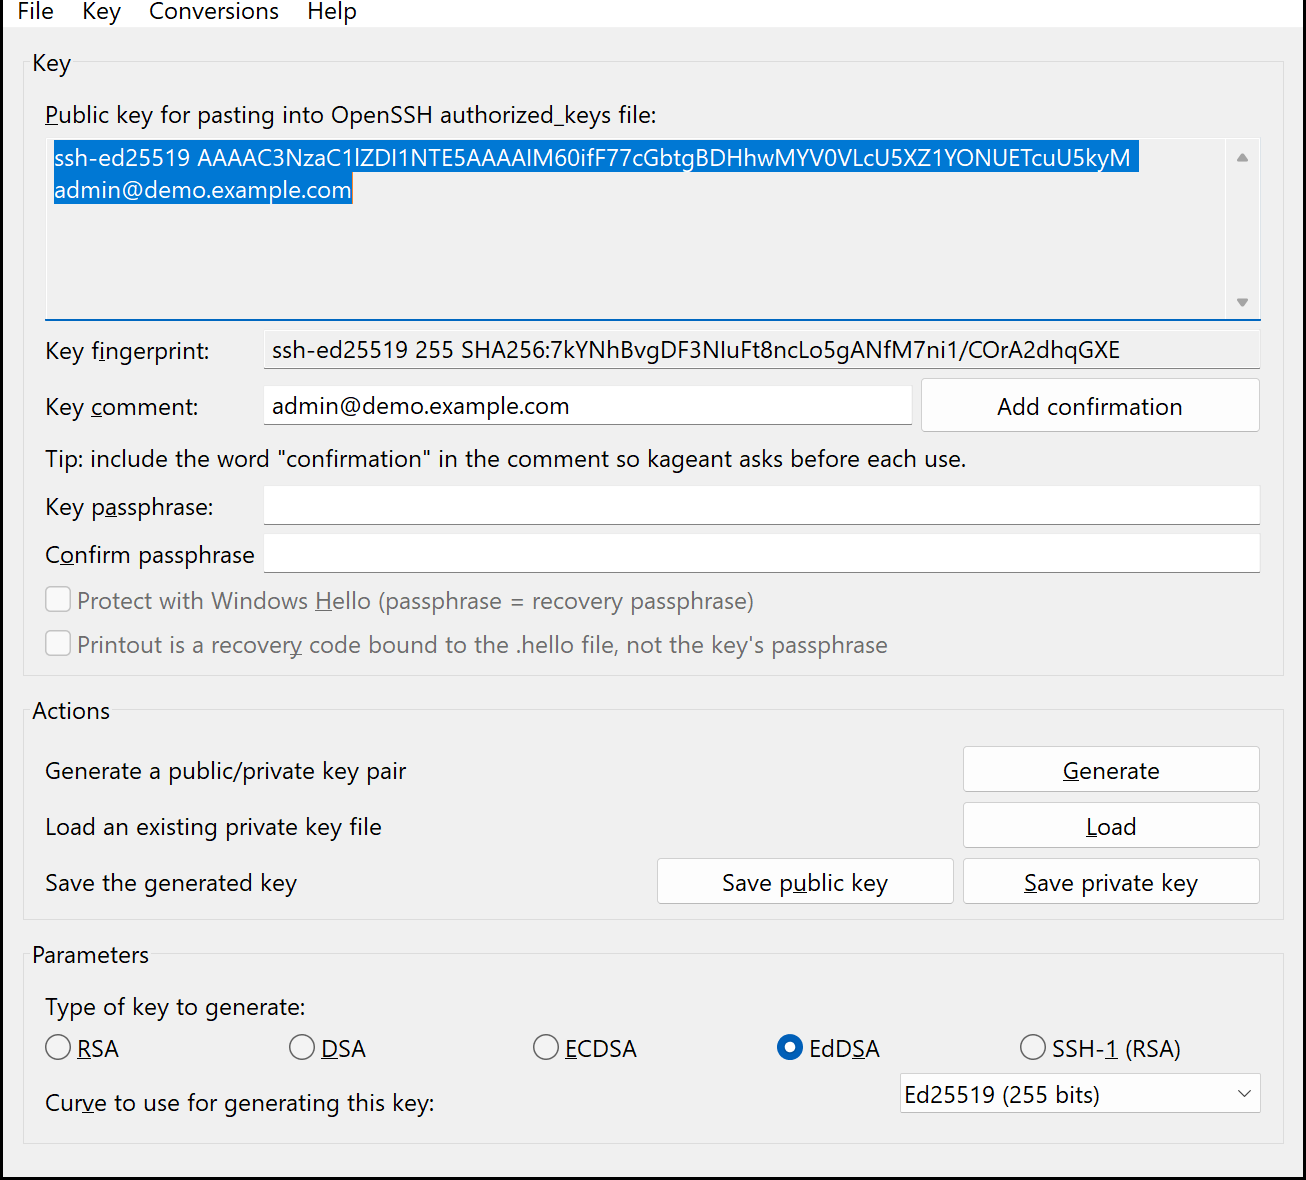
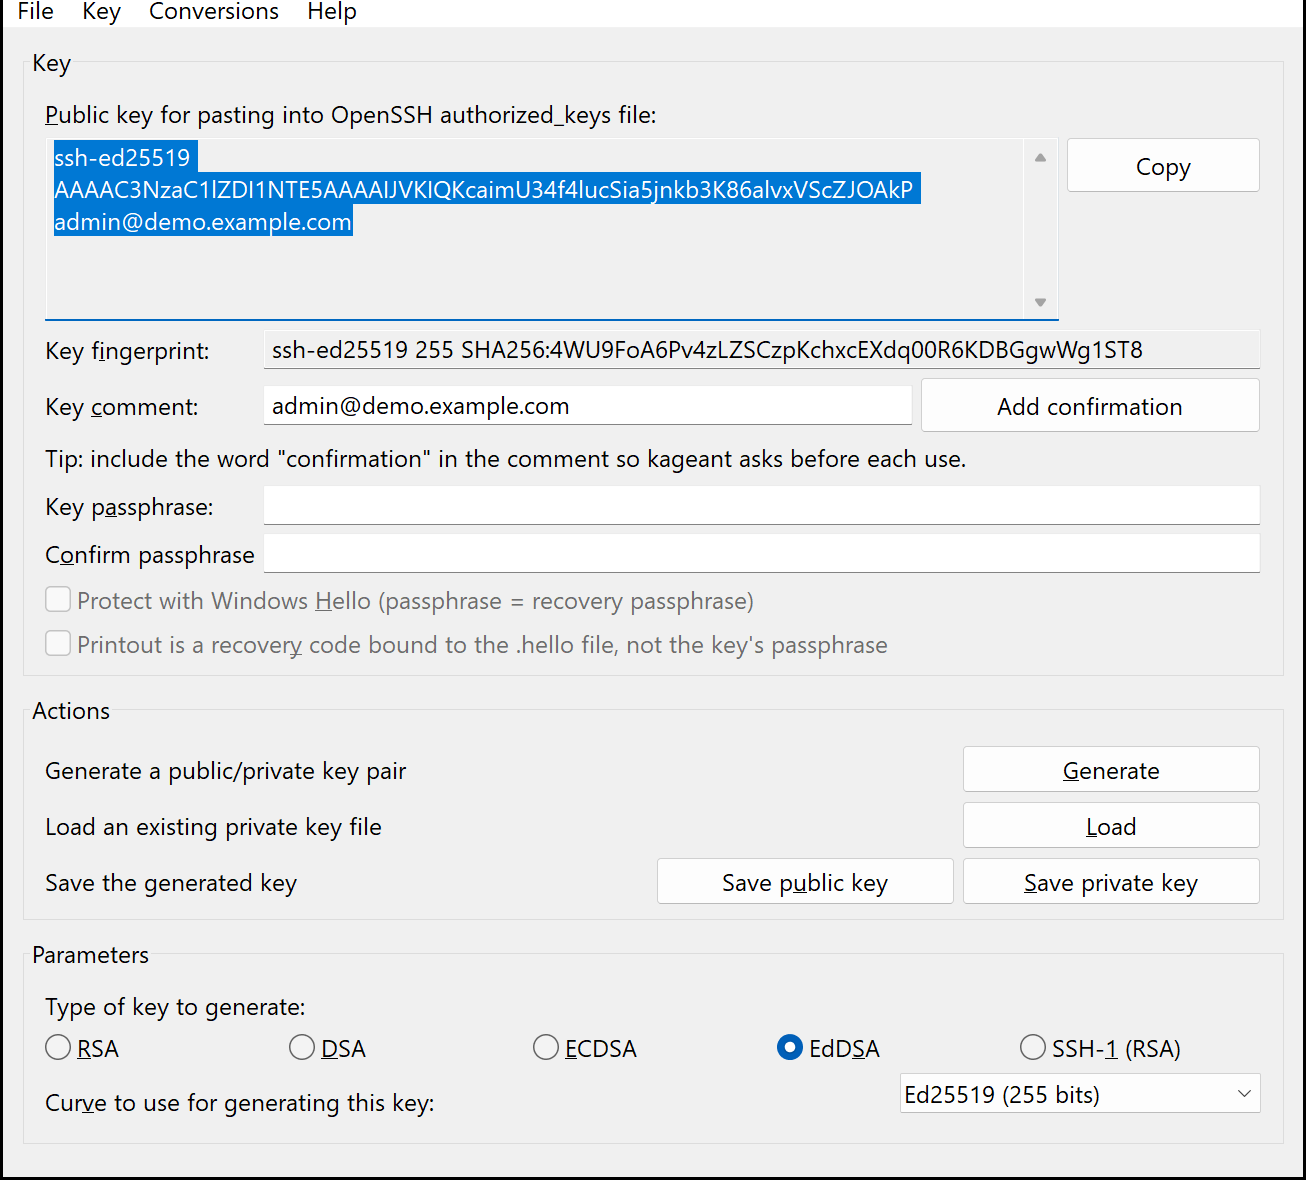
kittygen copy button, kageant settings line, named proxy last line fix for portable mode
kittygen has a Copy button beside the public-key box that puts the key on the clipboard.
A click into that box selects the whole key.
kageant's key list shows the kitty.ini path on its own row under the list.
A named proxy file without a final line break no longer loses its last value.
The FEATURES pictures of both tools are retaken.

Changed region(s): [[0.0306, 0.0915, 0.9188, 0.2136], [0.4288, 0.2746, 0.8882, 0.3051]]

diff --git a/windows/puttygen.c b/windows/puttygen.c
@@ -962,6 +962,7 @@ enum {
     IDC_HELLODOORS,    /* KiTTY: the sidecar door editor (menu item) */
     IDC_KGSIDEBOUND,   /* KiTTY: printout = code bound to the sidecar */
     IDC_KGNEW,         /* KiTTY: File > New - clear the mask */
+    IDC_COPYPUB,       /* KiTTY: public key to the clipboard */
 };
 
 /*
@@ -1134,12 +1135,40 @@ static void kg_hello_sync(HWND hwnd)
         CheckDlgButton(hwnd, IDC_KGSIDEBOUND, BST_UNCHECKED);
 }
 
+/* KiTTY: the public-key box's Copy button. The box holds one line (the
+ * edit only wraps it), so its text goes to the clipboard as it is. */
+static void kg_copy_pubkey(HWND hwnd)
+{
+    HWND edit = GetDlgItem(hwnd, IDC_KEYDISPLAY);
+    int len = GetWindowTextLength(edit);
+    HGLOBAL mem;
+    char *p;
+
+    if (len <= 0)
+        return;
+    mem = GlobalAlloc(GMEM_MOVEABLE, len + 1);
+    if (!mem)
+        return;
+    p = GlobalLock(mem);
+    GetWindowText(edit, p, len + 1);
+    GlobalUnlock(mem);
+    if (OpenClipboard(hwnd)) {
+        EmptyClipboard();
+        if (SetClipboardData(CF_TEXT, mem))
+            mem = NULL;            /* the clipboard owns it now */
+        CloseClipboard();
+    }
+    if (mem)
+        GlobalFree(mem);
+}
+
 static void setupbigedit1(HWND hwnd, RSAKey *key)
 {
     ShowWindow(GetDlgItem(hwnd, IDC_CERTSTATIC), SW_HIDE);
     ShowWindow(GetDlgItem(hwnd, IDC_CERTMOREINFO), SW_HIDE);
     ShowWindow(GetDlgItem(hwnd, IDC_PKSTATIC), SW_SHOW);
     ShowWindow(GetDlgItem(hwnd, IDC_KEYDISPLAY), SW_SHOW);
+    ShowWindow(GetDlgItem(hwnd, IDC_COPYPUB), SW_SHOW);
 
     SetDlgItemText(hwnd, IDC_PKSTATIC,
                    "&Public key for pasting into authorized_keys file:");
@@ -1156,6 +1185,7 @@ static void setupbigedit2(HWND hwnd, ssh2_userkey *key)
         ShowWindow(GetDlgItem(hwnd, IDC_CERTMOREINFO), SW_SHOW);
         ShowWindow(GetDlgItem(hwnd, IDC_PKSTATIC), SW_HIDE);
         ShowWindow(GetDlgItem(hwnd, IDC_KEYDISPLAY), SW_HIDE);
+        ShowWindow(GetDlgItem(hwnd, IDC_COPYPUB), SW_HIDE);
 
         SetDlgItemText(hwnd, IDC_CERTSTATIC,
                        "This public key contains an OpenSSH certificate.");
@@ -1164,6 +1194,7 @@ static void setupbigedit2(HWND hwnd, ssh2_userkey *key)
         ShowWindow(GetDlgItem(hwnd, IDC_CERTMOREINFO), SW_HIDE);
         ShowWindow(GetDlgItem(hwnd, IDC_PKSTATIC), SW_SHOW);
         ShowWindow(GetDlgItem(hwnd, IDC_KEYDISPLAY), SW_SHOW);
+        ShowWindow(GetDlgItem(hwnd, IDC_COPYPUB), SW_SHOW);
 
         SetDlgItemText(hwnd, IDC_PKSTATIC, "&Public key for pasting into "
                        "OpenSSH authorized_keys file:");
@@ -1204,8 +1235,9 @@ static const int gotkey_ids_unconditional[] = {
     IDC_KGSIDEBOUND, 0
 };
 static const int gotkey_ids_conditional[] = {
-    IDC_PKSTATIC, IDC_KEYDISPLAY,
+    IDC_PKSTATIC, IDC_KEYDISPLAY, IDC_COPYPUB,
     IDC_CERTSTATIC, IDC_CERTMOREINFO,
+    0  /* KiTTY: hidemany() stops at 0 - the list had none */
 };
 
 /*
@@ -2181,9 +2213,11 @@ static INT_PTR CALLBACK MainDlgProc(HWND hwnd, UINT msg,
             MakeDlgItemBorderless(hwnd, IDC_CERTSTATIC);
             cp2.xoff = cp2.width = cp2.width / 3;
             button(&cp2, "Certificate info...", IDC_CERTMOREINFO, false);
-            bigeditctrl(&cp,
+            /* KiTTY: the key box gives room to its Copy button */
+            bigeditctrlbutton(&cp,
                         "&Public key for pasting into authorized_keys file:",
-                        IDC_PKSTATIC, IDC_KEYDISPLAY, 5);
+                        IDC_PKSTATIC, IDC_KEYDISPLAY, 5,
+                        KT_KGEN_COPY_PUBKEY, IDC_COPYPUB, 16);
             SendDlgItemMessage(hwnd, IDC_KEYDISPLAY, EM_SETREADONLY, 1, 0);
             staticedit(&cp, "Key f&ingerprint:", IDC_FPSTATIC,
                        IDC_FINGERPRINT, 82);
@@ -2426,6 +2460,16 @@ static INT_PTR CALLBACK MainDlgProc(HWND hwnd, UINT msg,
           }
           case IDC_QUIT:
             PostMessage(hwnd, WM_CLOSE, 0, 0);
+            break;
+          case IDC_COPYPUB:
+            if (HIWORD(wParam) == BN_CLICKED)
+                kg_copy_pubkey(hwnd);
+            break;
+          case IDC_KEYDISPLAY:
+            /* KiTTY: focus selects the whole key. Posted: a click sets
+             * the focus first and then drops the caret where it landed. */
+            if (HIWORD(wParam) == EN_SETFOCUS)
+                PostMessage((HWND)lParam, EM_SETSEL, 0, -1);
             break;
           case IDC_ADDCONFIRM:
             /* KiTTY: append the confirm-on-use marker to the comment, unless
@@ -3146,6 +3190,7 @@ static INT_PTR CALLBACK MainDlgProc(HWND hwnd, UINT msg,
             topic = WINHELP_CTX_puttygen_generate; break;
           case IDC_PKSTATIC:
           case IDC_KEYDISPLAY:
+          case IDC_COPYPUB:
             topic = WINHELP_CTX_puttygen_pastekey; break;
           case IDC_FPSTATIC:
           case IDC_FINGERPRINT:

diff --git a/windows/controls.c b/windows/controls.c
@@ -1062,6 +1062,48 @@ void bigeditctrl(struct ctlpos *cp, const char *stext,
           WS_EX_CLIENTEDGE, "", eid);
 }
 
+/* KiTTY: bigeditctrl with a pushbutton to the right of the edit, its top
+ * level with the edit's. percentbtn is the button's share of the width;
+ * the edit gives that and one gap up. */
+void bigeditctrlbutton(struct ctlpos *cp, const char *stext,
+                       int sid, int eid, int lines,
+                       const char *btext, int bid, int percentbtn)
+{
+    RECT r;
+    int bwid, bpos, height;
+
+    if (stext) {
+        r.left = GAPBETWEEN;
+        r.top = cp->ypos;
+        r.right = cp->width;
+        r.bottom = STATICHEIGHT;
+        cp->ypos += r.bottom + GAPWITHIN;
+        doctl(cp, r, "STATIC", WS_CHILD | WS_VISIBLE, 0, stext, sid);
+    }
+
+    bwid = percentbtn * (cp->width + GAPBETWEEN) / 100;
+    bpos = cp->width + GAPBETWEEN - bwid;
+    height = EDITHEIGHT + (lines - 1) * STATICHEIGHT;
+
+    r.left = GAPBETWEEN;
+    r.top = cp->ypos;
+    r.right = bpos - 2 * GAPBETWEEN;
+    r.bottom = height;
+    doctl(cp, r, "EDIT",
+          WS_CHILD | WS_VISIBLE | WS_TABSTOP | WS_VSCROLL | ES_MULTILINE,
+          WS_EX_CLIENTEDGE, "", eid);
+
+    r.left = bpos;
+    r.top = cp->ypos;
+    r.right = bwid;
+    r.bottom = PUSHBTNHEIGHT;
+    doctl(cp, r, "BUTTON",
+          WS_CHILD | WS_VISIBLE | WS_TABSTOP | BS_PUSHBUTTON,
+          0, btext, bid);
+
+    cp->ypos += height + GAPBETWEEN;
+}
+
 /*
  * KiTTY: a config-panel multiline edit box (label on its own line above,
  * `lines` rows tall). Modelled on bigeditctrl, but adds ES_WANTRETURN so

diff --git a/windows/pageant.c b/windows/pageant.c
@@ -4182,9 +4182,24 @@ static INT_PTR CALLBACK KeyListProc(HWND hwnd, UINT msg,
         {
             static const int row_ids[] = {
                 IDC_KEYLIST_FPTYPE_STATIC, IDC_KEYLIST_SHOWUNAVAIL,
-                IDC_KEYLIST_RETRY, IDC_KEYLIST_INISTATUS, 0
+                IDC_KEYLIST_RETRY, 0
             };
             kitty_theme_align_row(hwnd, IDC_KEYLIST_FPTYPE, row_ids);
+        }
+
+        /* The ini-path row exists only in kitty.ini mode; otherwise the
+         * list grows over it. Before the capture, so the anchors keep it. */
+        if (!kageant_ini_status()) {
+            HWND st = GetDlgItem(hwnd, IDC_KEYLIST_INISTATUS);
+            HWND lv = GetDlgItem(hwnd, IDC_KEYLIST_LISTBOX);
+            RECT rs, rl;
+            GetWindowRect(st, &rs);
+            GetWindowRect(lv, &rl);
+            MapWindowPoints(NULL, hwnd, (POINT *)&rs, 2);
+            MapWindowPoints(NULL, hwnd, (POINT *)&rl, 2);
+            ShowWindow(st, SW_HIDE);
+            SetWindowPos(lv, NULL, 0, 0, rl.right - rl.left,
+                         rs.bottom - rl.top, SWP_NOMOVE | SWP_NOZORDER);
         }
 
         keylist_capture_layout(hwnd);

diff --git a/kitty/kitty_store.c b/kitty/kitty_store.c
@@ -839,13 +839,20 @@ bool ReadPortableValue(const char *buffer, const char * name, char * value, cons
 	char *b = (char*)malloc(strlen(name)+2), *pst ;
 	sprintf(b,"%s\\",name) ;
 	if( strstr(buffer,b)==buffer ) {
+		size_t n ;
 		pst = (char*)buffer + strlen(b) ;
 		test = true ;
 		value[0]='\0';
-		if( strlen(pst)>1 )
-		if( (strlen(pst)<=maxlen) && (pst[strlen(pst)-2]=='\\') ) {
-			memcpy( value, pst, strlen(pst)-2 ) ;
-			value[strlen(pst)-2] = '\0' ;
+		/* "value\" then the line's end. The line end is taken off FIRST: a
+		 * file's last line may have none (a file written by hand or by
+		 * another tool), and the old test looked for the closing '\' one
+		 * character before the end - such a line read as empty, a proxy's
+		 * port as 0. CR too, for a file copied with CRLF line ends. */
+		n = strlen(pst) ;
+		while( n>0 && (pst[n-1]=='\n' || pst[n-1]=='\r') ) n-- ;
+		if( n>0 && pst[n-1]=='\\' && (int)(n-1)<maxlen ) {
+			memcpy( value, pst, n-1 ) ;
+			value[n-1] = '\0' ;
 		}
 		unmungestr( value, value, MAX_VALUE_NAME ) ;
 	}

diff --git a/windows/platform.h b/windows/platform.h
@@ -561,6 +561,9 @@ void staticpassedit(struct ctlpos *cp, const char *stext,
                     int sid, int eid, int percentedit);
 void bigeditctrl(struct ctlpos *cp, const char *stext,
                  int sid, int eid, int lines);
+void bigeditctrlbutton(struct ctlpos *cp, const char *stext,
+                       int sid, int eid, int lines,
+                       const char *btext, int bid, int percentbtn);
 void ersatztab(struct ctlpos *cp, const char *stext, int sid, int lid,
                int s2id);
 void editbutton(struct ctlpos *cp, const char *stext, int sid,

diff --git a/kitty/kitty_text.h b/kitty/kitty_text.h
@@ -2794,6 +2794,7 @@
 #define KT_KGEN_MENU_NEW                             "&New (clear)"
 #define KT_KGEN_MENU_HELLO_DOORS                     "Windows Hello &doors..."
 #define KT_KGEN_ADD_CONFIRMATION                     "Add confirmation"
+#define KT_KGEN_COPY_PUBKEY                          "Copy"
 #define KT_KGEN_CONFIRMATION_TIP                     "Tip: include the word \"confirmation\" in the " \
         "comment so kageant asks before each use."
 #define KT_KGEN_HELLO_CHECKBOX                       "Protect with Windows &Hello " \

diff --git a/CHANGELOG.md b/CHANGELOG.md
@@ -109,6 +109,11 @@ For current known limitations see [KNOWN-ISSUES.md](KNOWN-ISSUES.md); for the fu
   About boxes now share one memory; the resizable ones keep their size too.
   The old stored places are carried over once. A portable copy keeps them
   in `kitty_windowpos.ini` beside the exe instead of the registry.
+- **kittygen copies the public key in one click.** A Copy button beside
+  the public-key box puts the key on the clipboard, ready for an
+  `authorized_keys` file. A click into the box selects the whole key.
+- **kageant's key list shows the kitty.ini path on its own line** under
+  the list, where it has room for the full path.
 
 ### Fixed
 
@@ -118,6 +123,9 @@ For current known limitations see [KNOWN-ISSUES.md](KNOWN-ISSUES.md); for the fu
   the same held for `%E4` and other `%xx` escapes, folders named that way
   and a `%` written by hand. Such a file is now opened and saved in place
   under its old name (hknet/KiTTY#59).
+- **A named proxy file without a final line break keeps its last value.**
+  In the folder store the last line was read as empty, so a hand-written
+  `ProxyPort\22\` came out as port 0.
 
 ## 0.85.1.13-beta — 2026-10-05
 
